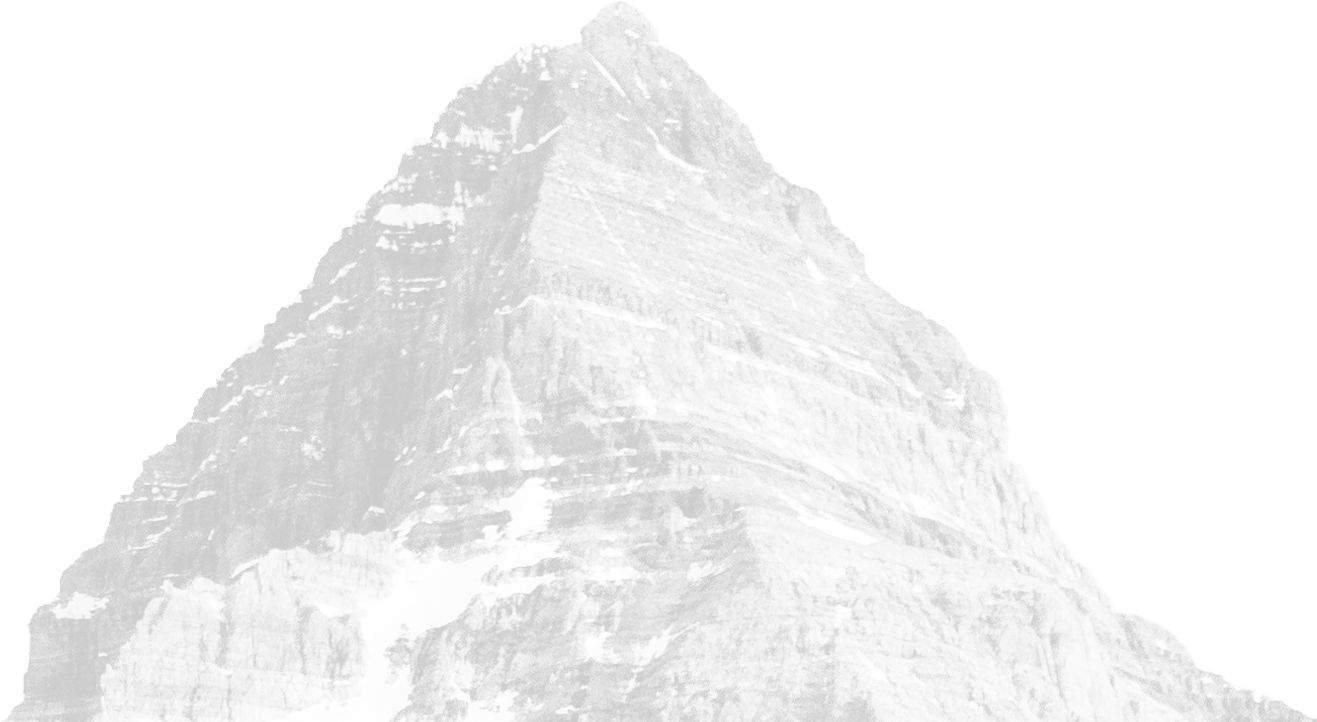
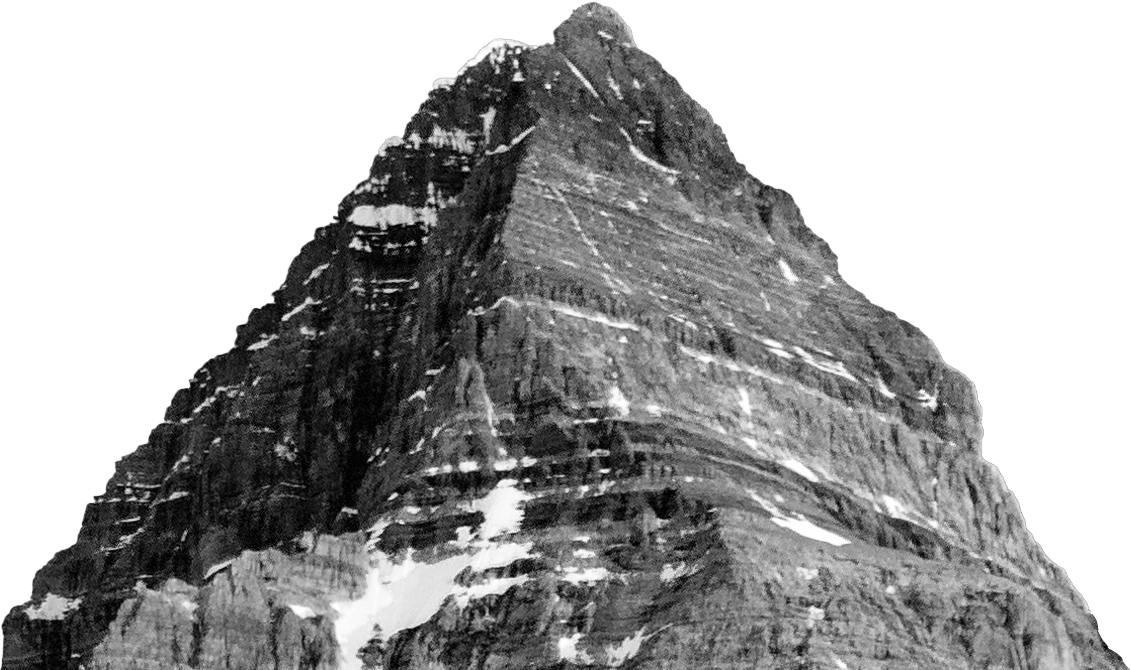
Style updates

diff --git a/src/lib/components/base/Footer.svelte b/src/lib/components/base/Footer.svelte
@@ -2,28 +2,57 @@
     import IoLogoLinkedin from 'svelte-icons/io/IoLogoLinkedin.svelte'
     import IoLogoGithub from 'svelte-icons/io/IoLogoGithub.svelte'
     import IoIosMail from 'svelte-icons/io/IoIosMail.svelte'
+
+    const year = new Date().getFullYear()
 </script>
 
-<div class="icons">
-    <a
-        href="javascript:window.location.href=atob('bWFpbHRvOnJ1c3NlbGwubWN3aGFlQGdtYWlsLmNvbQ==')"
-        rel="noopener noreferrer nofollow"><IoIosMail /></a
-    >
-    <a
-        href="https://github.com/rmcwhae"
-        rel="noopener noreferrer nofollow"
-        target="_blank"><IoLogoGithub /></a
-    >
-    <a
-        href="https://www.linkedin.com/notifications/"
-        rel="noopener noreferrer nofollow"
-        target="_blank"><IoLogoLinkedin /></a
-    >
-</div>
+<footer class="restricted-width">
+    <div class="flex justify-between align-center">
+        <div>&copy; {year} Russell McWhae. Made in Canada, eh.</div>
+        <div class="icons">
+            <!-- svelte-ignore a11y-invalid-attribute -->
+            <a
+                href="javascript:window.location.href=atob('bWFpbHRvOnJ1c3NlbGwubWN3aGFlQGdtYWlsLmNvbQ==')"
+                rel="noopener noreferrer nofollow"><IoIosMail /></a
+            >
+            <a
+                href="https://github.com/rmcwhae"
+                rel="noopener noreferrer nofollow"
+                target="_blank"><IoLogoGithub /></a
+            >
+            <a
+                href="https://www.linkedin.com/notifications/"
+                rel="noopener noreferrer nofollow"
+                target="_blank"><IoLogoLinkedin /></a
+            >
+        </div>
+    </div>
+</footer>
 
 <style>
-    a {
+    footer {
+        padding-top: var(--s0);
+        margin: 0 auto;
+        max-width: var(--lg);
+        color: var(--high-contrast-color);
         font-size: 1rem;
+        position: relative;
+    }
+    footer > div {
+        border-top: 1px solid var(--light-grey);
+        padding: var(--s0) 0;
+    }
+    footer:before {
+        content: '';
+        position: absolute;
+        left: 0;
+        top: 0;
+        width: 100%;
+        height: 100%;
+        background: url('/assiniboine.png') center bottom no-repeat;
+        background-size: auto 100%;
+    }
+    a {
         color: var(--high-contrast-color);
     }
     .icons a:not(:last-of-type) {

diff --git a/src/routes/journal/[slug].svelte b/src/routes/journal/[slug].svelte
@@ -83,7 +83,7 @@
     </div>
     <nav class="flex justify-between">
         {#if previous}
-            <div class="left border-bottom">
+            <div class="left">
                 <div class="mb"><LeftChevron /></div>
                 <JournalEntry post={previous} />
             </div>
@@ -91,7 +91,7 @@
             <div />
         {/if}
         {#if next}
-            <div class="right border-bottom">
+            <div class="right">
                 <div class="mb"><RightChevron /></div>
                 <JournalEntry post={next} />
             </div>

diff --git a/src/routes/__layout.svelte b/src/routes/__layout.svelte
@@ -11,15 +11,9 @@
 <main class="wrapper">
     <slot />
 </main>
-<footer><Footer /></footer>
+<Footer />
 
 <style>
-    footer {
-        padding: var(--s0) 0;
-        /* height: 200px; */
-        text-align: center;
-        /* background: url(assiniboine.png) center bottom no-repeat; */
-    }
     .wrapper {
         margin: 0 0 var(--s2);
         display: grid;

diff --git a/src/lib/components/journal/EntrySet.svelte b/src/lib/components/journal/EntrySet.svelte
@@ -6,9 +6,7 @@
 
 <div class="journal-entry-set">
     {#each posts as post}
-        <div class="border-bottom">
-            <JournalEntry {post} />
-        </div>
+        <JournalEntry {post} />
     {/each}
 </div>
 

diff --git a/src/lib/scss/base.scss b/src/lib/scss/base.scss
@@ -11,6 +11,9 @@
 .border-bottom {
     border-bottom: 1px solid var(--light-grey);
 }
+.border-top {
+    border-top: 1px solid var(--light-grey);
+}
 .mt-5 {
     margin-top: var(--s5);
 }
